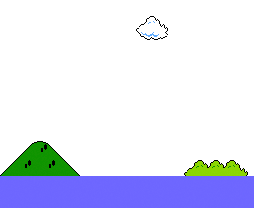
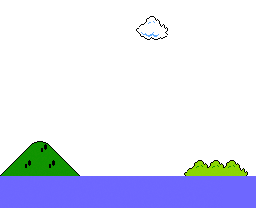
Fix textures scaling problem, and begin of world generation code

diff --git a/src/scenes/game.rs b/src/scenes/game.rs
@@ -3,6 +3,7 @@ extern crate sdl2;
 use glm;
 
 mod background;
+mod worlds;
 
 use crate::render;
 use std::path::Path;
@@ -120,7 +121,7 @@ impl Spirit {
     }
 }
 
-struct Block {
+pub struct Block {
     x: f32,
     y: f32,
     h: f32,
@@ -177,8 +178,8 @@ impl Block {
 
 pub struct Game {
     bg: background::Background,
-    bricks: Vec<Block>,
-    bricks_up: Vec<Block>,
+    world: worlds::World,
+    //bricks_up: Vec<Block>,
     spirit: Spirit,
     screen_move: f32,
 }
@@ -186,44 +187,32 @@ pub struct Game {
 impl Game {    
     pub fn init() -> Self {
         let bg = background::Background::init();
-        let mut bricks: Vec<Block> = vec![];
-    
-        for j in 0..=1 {
-            for i in 0..=20 {
-                let brick = Block::create(
-                    -1.0+0.07421875+(0.1484375*i as f32), 
-                    -1.0+0.07421875+(0.1484375*j as f32), 
-                    0.07421875, 
-                    0.07421875, 
-                    &Path::new("src/scenes/game/assets/images/stone.png"),
-                );
-                bricks.push(brick);
-            }
-        }
         
-        let mut bricks_up: Vec<Block> = vec![];
+        let world = worlds::World::init();
 
-        let brick = Block::create(
-        -1.0+0.07421875+(0.1484375*9 as f32), 
-            -1.0+0.07421875+(0.1484375*2 as f32), 
-            0.07421875, 
-            0.07421875, 
-            &Path::new("src/scenes/game/assets/images/stone_up.png"),
-        );
-        bricks_up.push(brick);
-        let brick = Block::create(
-           -1.0+0.07421875+(0.1484375*5 as f32), 
-            -1.0+0.07421875+(0.1484375*4 as f32), 
-            0.07421875, 
-            0.07421875, 
-            &Path::new("src/scenes/game/assets/images/stone_up.png"),
-        );
-        bricks_up.push(brick);
+        //let mut bricks_up: Vec<Block> = vec![];
+//
+        //let brick = Block::create(
+        //-1.0+0.07421875+(0.1484375*9 as f32), 
+        //    -1.0+0.07421875+(0.1484375*2 as f32), 
+        //    0.07421875, 
+        //    0.07421875, 
+        //    &Path::new("src/scenes/game/assets/images/stone_up.png"),
+        //);
+        //bricks_up.push(brick);
+        //let brick = Block::create(
+        //   -1.0+0.07421875+(0.1484375*5 as f32), 
+        //    -1.0+0.07421875+(0.1484375*4 as f32), 
+        //    0.07421875, 
+        //    0.07421875, 
+        //    &Path::new("src/scenes/game/assets/images/stone_up.png"),
+        //);
+        //bricks_up.push(brick);
         
         let screen_move = 0.0;
 
-        let spirit = Spirit::create(0.0, 0.0, 0.0625, 0.0625, &Path::new("src/scenes/game/assets/images/mario-still.png"));
-        Self{bg, bricks, bricks_up, spirit, screen_move}
+        let spirit = Spirit::create(0.0, 0.0, 16.0/208.0, 16.0/256.0, &Path::new("src/scenes/game/assets/images/mario-still.png"));
+        Self{bg, world, spirit, screen_move}
     }
 
     pub fn jump(&mut self) {
@@ -245,7 +234,7 @@ impl Game {
         // brick collison falling
         self.spirit.is_falling = true;
 
-        for brick in self.bricks.iter() {
+        for brick in self.world.tiles[0].floor.iter() {
             if self.spirit.check_hitbox(brick) == "bottom" {
                 self.spirit.y = brick.y+brick.h+self.spirit.h;
                 if self.spirit.move_acc_y < 0 as f32 {
@@ -255,24 +244,24 @@ impl Game {
             }
         }
         
-        for brick in self.bricks_up.iter() {
-            if self.spirit.check_hitbox(brick) == "bottom" {
-                self.spirit.y = brick.y+brick.h+self.spirit.h;
-                if self.spirit.move_acc_y < 0 as f32 {
-                    self.spirit.move_acc_y = 0.0;
-                }
-                self.spirit.is_falling = false;
-            }
-            else if self.spirit.check_hitbox(brick) == "top" {
-                self.spirit.y = brick.y-brick.h-self.spirit.w;
-            }
-            else if self.spirit.check_hitbox(brick) == "left" {
-                self.spirit.x = brick.x+brick.w+self.spirit.w+0.01;
-            }
-            else if self.spirit.check_hitbox(brick) == "right" {
-                self.spirit.x = brick.x-brick.w-self.spirit.w-0.01;
-            }
-        }
+        //for brick in self.bricks_up.iter() {
+        //    if self.spirit.check_hitbox(brick) == "bottom" {
+        //        self.spirit.y = brick.y+brick.h+self.spirit.h;
+        //        if self.spirit.move_acc_y < 0 as f32 {
+        //            self.spirit.move_acc_y = 0.0;
+        //        }
+        //        self.spirit.is_falling = false;
+        //    }
+        //    else if self.spirit.check_hitbox(brick) == "top" {
+        //        self.spirit.y = brick.y-brick.h-self.spirit.w;
+        //    }
+        //    else if self.spirit.check_hitbox(brick) == "left" {
+        //        self.spirit.x = brick.x+brick.w+self.spirit.w+0.01;
+        //    }
+        //    else if self.spirit.check_hitbox(brick) == "right" {
+        //        self.spirit.x = brick.x-brick.w-self.spirit.w-0.01;
+        //    }
+        //}
 
         if self.spirit.is_falling {
             self.spirit.move_acc_y -= 0.15;
@@ -332,7 +321,7 @@ impl Game {
             gl::Uniform1i(flip, self.spirit.flip as i32);
         }
 
-        let mut view = glm::mat4(1.0, 0.0, 0.0, self.screen_move,
+        let view = glm::mat4(1.0, 0.0, 0.0, self.screen_move,
                                  0.0, 1.0, 0.0, 0.0,
                                  0.0, 0.0, 1.0, 0.0,
                                  0.0, 0.0, 0.0, 1.0);
@@ -353,17 +342,13 @@ impl Game {
 
     pub unsafe fn draw(&self) {
         self.bg.draw();
-        for brick in self.bricks.iter() {
-            unsafe {
-                brick.draw();
-            }
-        }
+        self.world.draw();
 
-        for brick in self.bricks_up.iter() {
-            unsafe {
-                brick.draw();
-            }
-        }
+        //for brick in self.bricks_up.iter() {
+        //    unsafe {
+         //       brick.draw();
+          //  }
+        //}
         
         self.spirit.draw();
     }

diff --git a/src/scenes/game/worlds.rs b/src/scenes/game/worlds.rs
@@ -1,0 +1,55 @@
+use crate::scenes::game;
+use std::path::Path;
+
+pub struct Tile {
+    pub floor: Vec<game::Block>,
+}
+
+impl Tile {
+    fn create() -> Self {
+        // Floor
+        let mut floor: Vec<game::Block> = vec![];
+
+        for j in (1..=3).step_by(2)  {
+            for i in (1..=32).step_by(2) {
+                let stone = game::Block::create(
+                    -1.0+((16.0/256.0)*i as f32), 
+                    -1.0+((16.0/208.0)*j as f32), 
+                    16.0/208.0, 
+                    16.0/256.0,
+                    &Path::new("src/scenes/game/assets/images/stone.png"),
+                );
+                floor.push(stone);
+            }
+        }
+
+        Self{floor}
+    }
+
+    unsafe fn draw(&self) {
+        for stone in self.floor.iter() {
+            stone.draw()
+        }
+    }
+}
+
+pub struct World {
+    pub tiles: Vec<Tile>,
+}
+
+impl World {
+    pub fn init() -> Self {
+        let mut tiles: Vec<Tile> = vec![];
+
+        let tile = Tile::create();
+        tiles.push(tile);
+
+        Self{tiles}
+    }
+
+    pub unsafe fn draw(&self) {
+        for tile in self.tiles.iter() {
+            tile.draw();
+        }
+    }
+}

diff --git a/src/main.rs b/src/main.rs
@@ -17,7 +17,7 @@ fn main() {
     gl_attr.set_context_profile(GLProfile::Core);
     gl_attr.set_context_version(4, 6);
 
-    let window = video_subsystem.window("Runner", 256, 256).opengl().build().unwrap();
+    let window = video_subsystem.window("Runner", 256, 208).opengl().build().unwrap();
     
     let _ctx = window.gl_create_context().unwrap();
     gl::load_with(|name| video_subsystem.gl_get_proc_address(name) as *const _);
